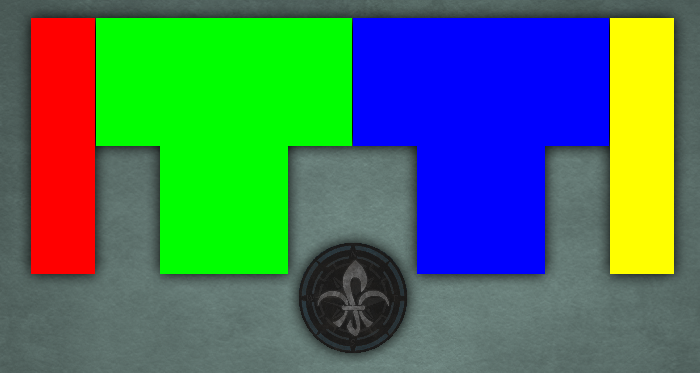
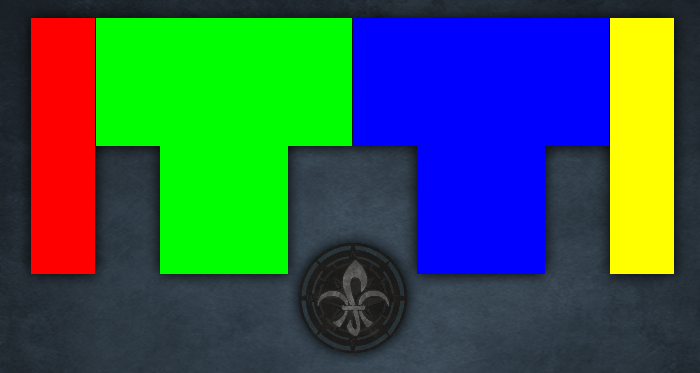
New style

diff --git a/style.css b/style.css
@@ -9,7 +9,7 @@
 body, html {
 	min-height: 100%;
 	height: 100%;
-	background-color: black;
+	background-color: #1c1c1c;
 }
 
 body {

diff --git a/index.html b/index.html
@@ -1,4 +1,4 @@
-DOCTYPE html>
+<DOCTYPE html>
 <html lang="en">
     <head>
         
